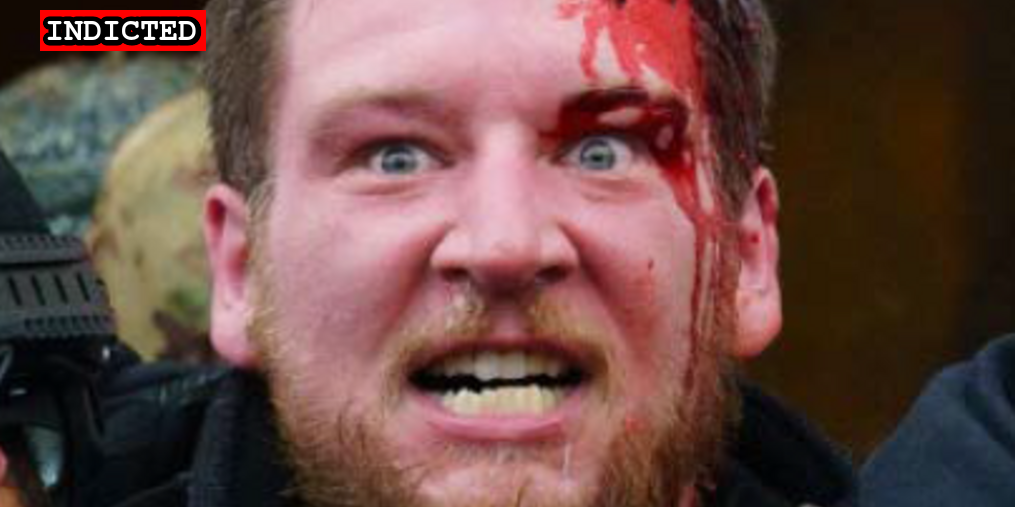
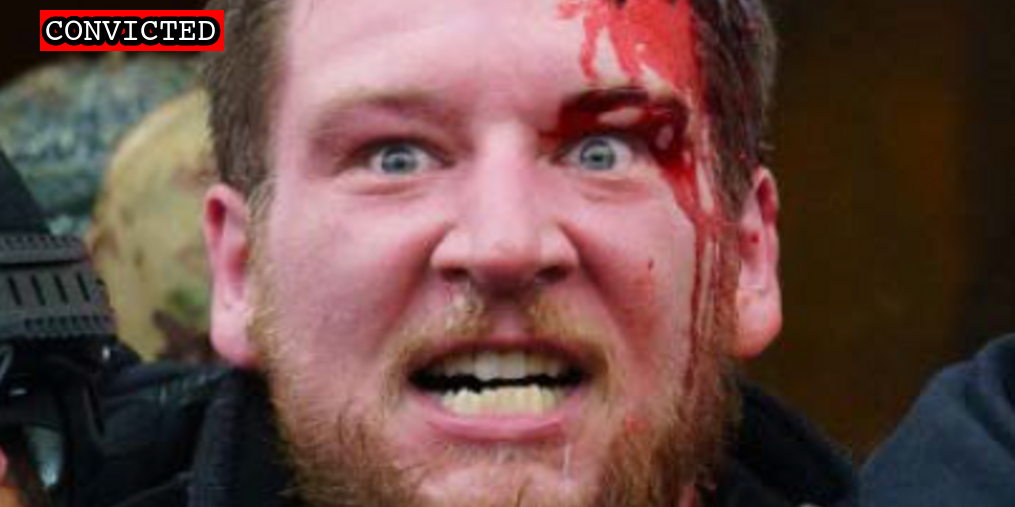
Fitzsimons conviction

Changed region(s): [[0.0305, 0.0, 0.2443, 0.1183]]

diff --git a/docs/_suspects/kyle-fitzsimons.md b/docs/_suspects/kyle-fitzsimons.md
@@ -4,11 +4,11 @@ lastName: Fitzsimons
 hashtag: BloodyHeadWound
 aka:
 residence: Maine
-status: Indicted
+status: Convicted
 date: 2021-02-04
 charged: 2021-02-04
 indicted: 2021-02-26
-convicted:
+convicted: 2022-09-27
 acquitted:
 sentenced:
 dismissed:
@@ -16,7 +16,7 @@ deceased:
 plea_hearing:
 trial_date: 2022-08-16
 trial_type: Bench Trial
-sentencing:
+sentencing: 2023-02-17
 age: 37
 occupation: Butcher
 affiliations:
@@ -37,8 +37,51 @@ published: true
 caseNumber: 1:21-cr-158
 videos:
 charges:
+  - code: 18 USC § 231(a)(3)
+    title: Obstruction of Law Enforcement During Civil Disorder
+    url: https://www.law.cornell.edu/uscode/text/18/231
+    felony: true
+  - code: 18 USC § 1512(c)(2),2
+    title: Obstruction of an Official Proceeding (Aiding and Abetting)
+    url: https://www.law.cornell.edu/uscode/text/18/1512
+    felony: true
+  - code: 18 USC § 111(a)(1) and (b)
+    title: Assaulting, resisting, or impeding certain officers or employees (using a deadly or dangerous weapon)
+    url: https://www.law.cornell.edu/uscode/text/18/111
+    felony: true
+  - code: 18 USC § 111(a)(1)
+    title: Assaulting, resisting, or impeding certain officers or employees
+    url: https://www.law.cornell.edu/uscode/text/18/111
+    felony: true
+  - code: 18 USC § 111(a)(1)
+    title: Assaulting, resisting, or impeding certain officers or employees
+    url: https://www.law.cornell.edu/uscode/text/18/111
+    felony: true
+  - code: 18 USC § 111(a)(1)
+    title: Assaulting, resisting, or impeding certain officers or employees
+    url: https://www.law.cornell.edu/uscode/text/18/111
+    felony: true
+  - code: 18 USC § 1752(a)(1)
+    title: Entering a restricted building or grounds
+    url: https://www.law.cornell.edu/uscode/text/18/1752
+    felony: false
+  - code: 18 USC § 1752(a)(2)
+    title: Disorderly and disruptive conduct in a restricted building or grounds
+    url: https://www.law.cornell.edu/uscode/text/18/1752
+    felony: false
+  - code: 18 USC § 1752(a)(4), (b)(1)(A)
+    title: Engaging in Physical Violence in a Restricted Building (with a deadly or dangerous weapon)
+    url: https://www.law.cornell.edu/uscode/text/18/1752
+    felony: true
+  - code: 40 USC § 5104(e)(2)(D)
+    title: Disorderly Conduct in a Capitol Building
+    url: https://www.law.cornell.edu/uscode/text/40/5104
+    felony: false
+  - code: 40 USC § 5104(e)(2)(F)
+    title: Act of physical violence on Capitol grounds
+    url: https://www.law.cornell.edu/uscode/text/40/5104
+    felony: false
 sentence:
-notes: Bench trial
 ---
 
 - [News Report](https://twitter.com/nathanTbernard/status/1357746924535877633?s=20)

diff --git a/docs/_suspects/thomas-webster.md b/docs/_suspects/thomas-webster.md
@@ -55,7 +55,7 @@ charges:
     title: Disorderly and disruptive conduct in a restricted building or grounds (with a deadly or dangerous weapon)
     url: https://www.law.cornell.edu/uscode/text/18/1752
     felony: true
-  - code: 18 USC § 1752(a)(4) and (b)(1)(A)
+  - code: 18 USC § 1752(a)(4), (b)(1)(A)
     title: Engaging in Physical Violence in a Restricted Building (with a deadly or dangerous weapon)
     url: https://www.law.cornell.edu/uscode/text/18/1752
     felony: true
